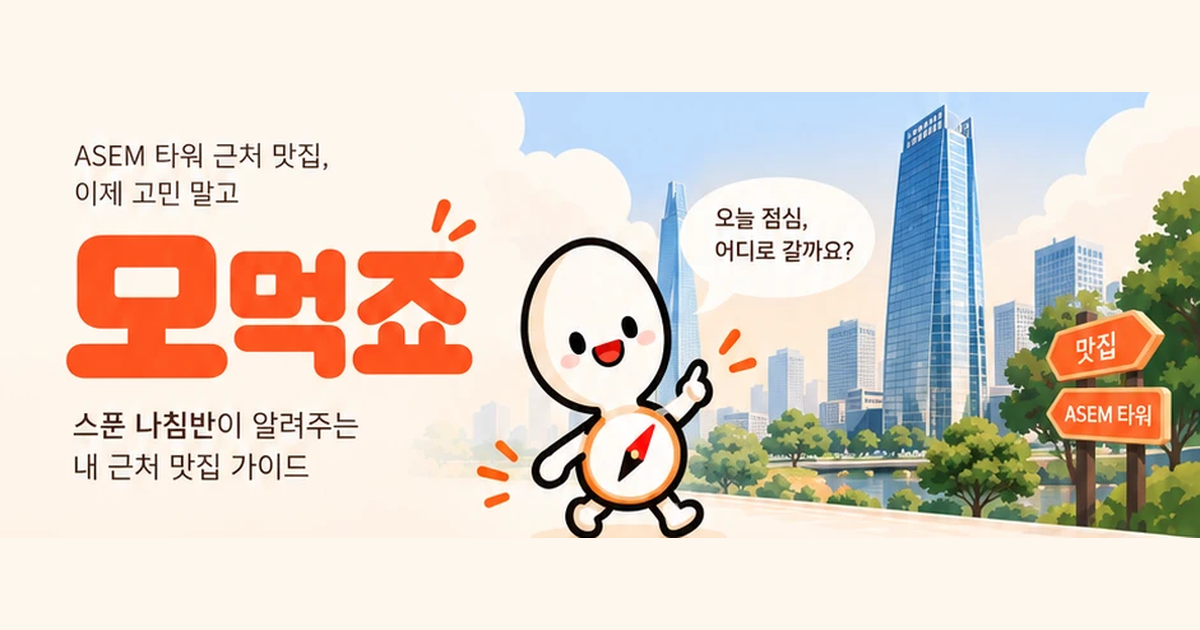
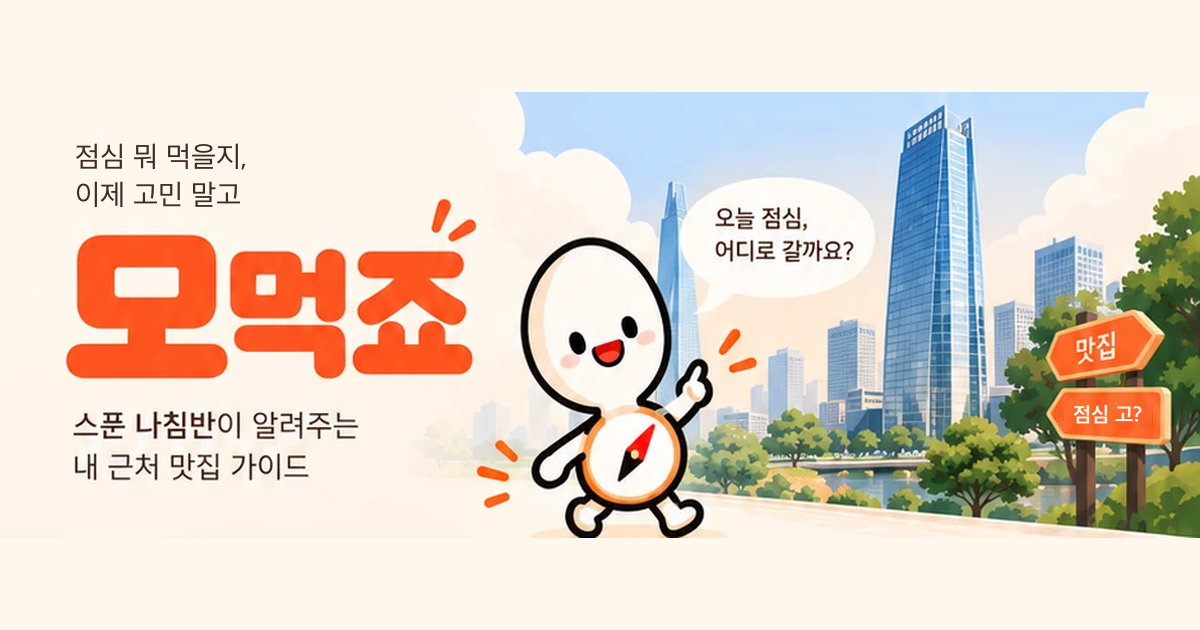
fix(brand): 공유 미리보기 이미지에서 ASEM 타워 문구 제거 — 머리글 'ASEM 타워 근처 맛집,' → '점심 뭐 먹을지,', 표지판 'ASEM 타워' → '점심 고?'(그림은 그대로), og:image에 ?v=2를 붙여 카카오톡·슬랙 미리보기 캐시를 새로 받게. README 소개를 거점 기준으로

Changed region(s): [[0.0617, 0.2111, 0.2775, 0.3317], [0.8633, 0.6333, 0.9558, 0.6937]]

diff --git a/index.html b/index.html
@@ -9,7 +9,7 @@
     <meta property="og:site_name" content="모먹죠" />
     <meta property="og:title" content="모먹죠 - 점심 고?" />
     <meta property="og:description" content="인원과 거리만 고르면 근처 식당을 바로 골라드려요" />
-    <meta property="og:image" content="https://mmj.itmz.me/og.png" />
+    <meta property="og:image" content="https://mmj.itmz.me/og.png?v=2" />
     <meta property="og:image:width" content="1200" />
     <meta property="og:image:height" content="630" />
     <meta property="og:locale" content="ko_KR" />

diff --git a/README.md b/README.md
@@ -1,6 +1,6 @@
 # 모먹죠 (mmj.itmz.me)
 
-ASEM 타워 근처 점심 추천. Cloudflare Worker 하나(Hono API + React SPA, `@cloudflare/vite-plugin`) + D1 + Cron(5분). 설계는 `docs/superpowers/specs/2026-10-05-momeokjo-design.md`.
+거점(역) 근처 점심 추천 — 봉은사역·동대문역사문화공원역·판교역·내방역·정부과천청사역. Cloudflare Worker 하나(Hono API + React SPA, `@cloudflare/vite-plugin`) + D1 + Cron(5분). 설계는 `docs/superpowers/specs/2026-10-05-momeokjo-design.md`.
 
 ## 개발
 
